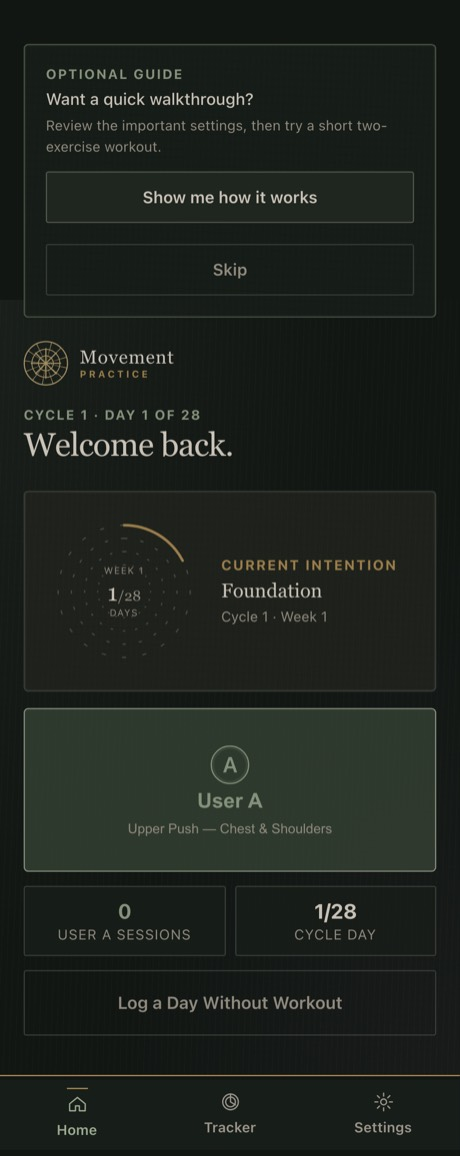
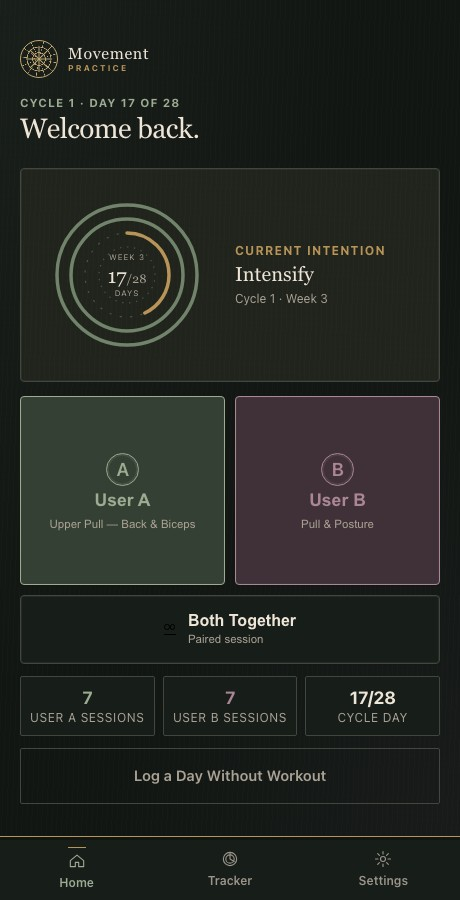
Polish portfolio presentation and refresh demo screenshots
Add reproducible screenshots with fictional tracker data, restore current UI documentation, improve social sharing metadata, add the project origin story and author credit, and update release, architecture, and testing documentation.

diff --git a/index.html b/index.html
@@ -5,6 +5,18 @@
   <meta name="viewport" content="width=device-width, initial-scale=1.0, viewport-fit=cover">
 
   <title>Movement</title>
+  <meta name="description" content="A private, offline-capable movement tracker that adapts each day's workout to your energy, soreness, pain, and symptoms.">
+  <link rel="canonical" href="https://eli-studio.github.io/movement-practice/">
+
+  <meta property="og:type" content="website">
+  <meta property="og:title" content="Movement Practice">
+  <meta property="og:description" content="A local-first movement tracker that adapts each day's workout to how your body actually feels.">
+  <meta property="og:url" content="https://eli-studio.github.io/movement-practice/">
+  <meta property="og:image" content="https://eli-studio.github.io/movement-practice/docs/social-preview.png">
+  <meta property="og:image:width" content="1200">
+  <meta property="og:image:height" content="630">
+  <meta property="og:image:alt" content="Movement Practice dashboard and four-week cycle progress">
+  <meta name="twitter:card" content="summary_large_image">
 
   <meta name="apple-mobile-web-app-capable" content="yes">
   <meta name="mobile-web-app-capable" content="yes">

diff --git a/js/screens.js b/js/screens.js
@@ -1841,6 +1841,9 @@ export function renderSettings(App) {
           health-data tracking. Everything stays on your device. Easy to carry,
           easy to adapt.
         </p>
+        <p class="about-card__credit">
+          Designed by <a href="https://github.com/Eli-Studio" target="_blank" rel="noopener noreferrer">Eli-Studio</a>
+        </p>
         <p class="about-card__meta">Movement Practice · v${APP_VERSION}</p>
       </div>
     </div>

diff --git a/service-worker.js b/service-worker.js
@@ -1,7 +1,7 @@
 // Bump this version whenever any precached asset changes. This is the single
 // cache-busting mechanism — module URLs no longer carry per-file ?v= query
 // strings (which had drifted out of sync and spawned duplicate module fetches).
-const CACHE = 'movement-network-first-v16';
+const CACHE = 'movement-network-first-v17';
 const CORE = ['./', './index.html', './styles.css', './manifest.json', './icons/icon.svg',
   './icons/icon-120.png', './icons/icon-152.png', './icons/icon-167.png', './icons/icon-180.png',
   './icons/icon-192.png', './icons/icon-512.png', './icons/icon-maskable-512.png',

diff --git a/styles.css b/styles.css
@@ -672,6 +672,8 @@ body {
 .about-card__blurb {
   color: var(--text-2); font-size: 0.86rem; line-height: 1.6; margin-bottom: 14px;
 }
+.about-card__credit { margin-bottom: 12px; color: var(--text-2); font-size: .78rem; }
+.about-card__credit a { color: var(--action-primary-strong); text-underline-offset: 3px; }
 .about-card__links { display: flex; flex-wrap: wrap; gap: 8px; }
 .about-card__links .btn { text-decoration: none; }
 .about-card__meta {

diff --git a/README.md b/README.md
@@ -6,16 +6,19 @@
   <img alt="License: MIT" src="https://img.shields.io/badge/License-MIT-b89458">
   <img alt="Zero runtime dependencies" src="https://img.shields.io/badge/runtime%20deps-0-2f6f4e">
   <img alt="PWA" src="https://img.shields.io/badge/PWA-offline--first-4b5c47">
-  <img alt="Vanilla JS" src="https://img.shields.io/badge/vanilla-JS-informational">
+  <a href="https://github.com/Eli-Studio/movement-practice/actions/workflows/release-checks.yml"><img alt="Release checks" src="https://github.com/Eli-Studio/movement-practice/actions/workflows/release-checks.yml/badge.svg"></a>
 </p>
 
 ### ▶︎ [Try the live demo](https://eli-studio.github.io/movement-practice/)
 
 <p>
-  <img src="docs/screenshots/dashboard.jpg" alt="Home dashboard showing cycle progress and today's routine" width="260">
-  <img src="docs/screenshots/onboarding.jpg" alt="Onboarding: choose one or two profiles" width="260">
-  <img src="docs/screenshots/reports.jpg" alt="Tracker screen with charts and exports" width="260">
+  <img src="docs/screenshots/dashboard.jpg" alt="Home dashboard showing four-week cycle progress and today's routines" width="220">
+  <img src="docs/screenshots/checkin.jpg" alt="Daily capacity check-in with energy, pain, soreness, and symptoms" width="220">
+  <img src="docs/screenshots/adaptation.jpg" alt="Today's adapted workout recommendation and exercise choices" width="220">
+  <img src="docs/screenshots/reports.jpg" alt="Populated Tracker with fictional session, capacity, and progression data" width="220">
 </p>
+
+<sub>Screenshots use deterministic fictional sample data generated by <code>npm run screenshots</code>.</sub>
 
 ---
 
@@ -25,6 +28,12 @@ Movement Practice runs a rotating, four-week strength/mobility program for one o
 
 Everything is stored in the browser. There is no backend to run, nothing to sign up for, and no telemetry.
 
+## Why I built it
+
+Movement Practice began as a tool for my partner and me. We wanted to follow the same four-week practice while adapting each day for different energy, soreness, chronic pain symptoms, and available equipment—without treating recovery as failure or losing our place in the cycle.
+
+That constraint shaped the two-profile model, local-first storage, shared-equipment handling, and the adaptation engine.
+
 ## Notable engineering
 
 The parts worth a look if you're reviewing the code:
@@ -32,7 +41,7 @@ The parts worth a look if you're reviewing the code:
 - **Offline-first PWA, zero runtime dependencies.** The entire app is hand-written ES modules + one vendored chart library. A [service worker](service-worker.js) precaches the app shell and serves it offline; a single cache-version constant is the only cache-busting mechanism.
 - **An adaptive training engine.** [`adaptation.js`](js/adaptation.js) + [`rotation.js`](js/rotation.js) + [`cycles.js`](js/cycles.js) compose the daily plan from a capacity check-in, a symptom→exercise conflict matrix, available equipment, and where you are in the 28-day cycle.
 - **Safe, structural data migration.** [`storage.js`](js/storage.js) forward-fills older saves against the current schema (nested count maps, per-profile fields), migrates a legacy storage key without stranding history, and validates imported backups field-by-field before trusting them.
-- **Security-minded exports.** CSV cells are [neutralized against spreadsheet formula injection](js/exports.js) (`=`, `+`, `-`, `@`), all user text is HTML-escaped at the render layer, and the only permitted external link is an `https://open.spotify.com` allow-list.
+- **Security-minded exports and links.** CSV cells are [neutralized against spreadsheet formula injection](js/exports.js) (`=`, `+`, `-`, `@`), all user text is HTML-escaped at the render layer, user-configured links are restricted to an `https://open.spotify.com` allow-list, and the About card contains one fixed author link to GitHub.
 - **Accessibility as a first-class concern.** `aria-pressed` toggles, an `aria-live` announcement region, visible focus indicators, `prefers-reduced-motion` support, 44px touch targets, and WCAG AA color contrast in both themes — with an automated contrast regression test guarding it.
 - **iOS-safe audio unlocking.** [`audio.js`](js/audio.js) works around WebKit's gesture-gated `.play()` by pre-creating and unlocking every audio element on the first user tap.
 - **A dependency-free release checker.** [`scripts/release-check.mjs`](scripts/release-check.mjs) validates JS syntax, the exercise/routine/equipment reference graph, version alignment, backup migration round-trips, and CSV safety — with no test framework.
@@ -69,7 +78,8 @@ npm run serve      # zero-dependency static server → http://127.0.0.1:4174
 
 ```bash
 npm test           # dependency-free release checks (syntax, data graph, migration, CSV safety)
-npm run test:e2e   # Playwright behavioral smoke tests (onboarding, navigation, export, a11y contrast)
+npm run test:e2e   # Playwright behavioral smoke tests (flows, export, a11y, cycle graphics)
+npm run screenshots # regenerate the curated README gallery and social preview
 ```
 
 `npm test` has no dependencies and gates every pull request. The Playwright suite is a dev-only add-on — it does not affect the shipped, zero-dependency app.

diff --git a/NEXT_STEPS.md b/NEXT_STEPS.md
@@ -1,10 +1,9 @@
-# Release Checkpoint
+# Roadmap and Release Checkpoint
 
-Version 0.6.0 is the finished public demo candidate. The current branch is
-functional, deployable, and manually verified across phone, tablet, and desktop
-viewports.
+Version 0.6.1 is the current public demo. The main branch is functional,
+deployable, and verified across phone, tablet, and desktop viewports.
 
-## Completed for 0.6.0
+## Completed through 0.6.1
 
 - One- or two-profile onboarding with an optional guided first workout.
 - Daily capacity choices with transparent defaults.
@@ -28,15 +27,16 @@ viewports.
 4. On the deployed HTTPS URL, smoke-test fresh onboarding, one short workout,
    resume/discard, backup restore, second-profile controls, paired phone layout,
    install, and offline reload.
-5. Tag the verified commit as `v0.6.0`.
+5. Tag the verified commit with the next semantic version.
 
-## Added since 0.6.0
+## Portfolio and release tooling
 
 - MIT license ([LICENSE](LICENSE)).
 - Playwright behavioral smoke tests ([tests/e2e/](tests/e2e)) covering onboarding,
   navigation, backup export, and a WCAG-AA contrast regression guard, wired into CI.
 - Zero-dependency local static server (`npm run serve`).
 - Architecture overview ([ARCHITECTURE.md](ARCHITECTURE.md)).
+- Reproducible README screenshots and social preview (`npm run screenshots`).
 
 ## Intentionally deferred beyond the demo
 

diff --git a/CHANGELOG.md b/CHANGELOG.md
@@ -5,6 +5,18 @@ All notable changes to Movement Practice are documented here.
 The format is based on [Keep a Changelog](https://keepachangelog.com/en/1.1.0/),
 and this project adheres to [Semantic Versioning](https://semver.org/spec/v2.0.0.html).
 
+## [Unreleased]
+
+### Added
+- A short origin story explaining the two-person, capacity-adaptive product constraints.
+- Reproducible current-version README screenshots with deterministic fictional sample data.
+- A generated 1200×630 social preview plus Open Graph, Twitter card, canonical URL, and page-description metadata.
+- A fixed GitHub author link in the in-app About card.
+
+### Changed
+- Replaced the README's implementation badge with the Release Checks workflow status.
+- Updated architecture, testing, and roadmap documentation for the current public demo.
+
 ## [0.6.1] — 2026-07-13
 
 ### Fixed
@@ -56,5 +68,6 @@ Initial public demo.
   visible focus indicators, and reduced-motion support.
 - Dependency-free automated release checks in pull requests and before deploys.
 
+[Unreleased]: https://github.com/Eli-Studio/movement-practice/compare/v0.6.1...HEAD
 [0.6.1]: https://github.com/Eli-Studio/movement-practice/releases/tag/v0.6.1
 [0.6.0]: https://github.com/Eli-Studio/movement-practice/releases/tag/v0.6.0

diff --git a/ARCHITECTURE.md b/ARCHITECTURE.md
@@ -3,7 +3,7 @@
 A tour of how Movement Practice is put together. The app is a single-page,
 offline-first PWA written in vanilla ES modules — no framework, no build step,
 one vendored chart library. This document is the map a reviewer needs to move
-through ~8.7k lines quickly.
+through ~9k lines quickly.
 
 ## The big picture
 
@@ -94,8 +94,11 @@ third-party network requests.
   gate: JS syntax, the exercise/routine/equipment reference graph, version
   alignment, backup-migration round-trip, and CSV formula-injection safety.
 - [`tests/e2e/`](tests/e2e) — **dev-only** Playwright behavioral tests (onboarding,
-  navigation, backup download, and a WCAG-AA contrast regression guard), driven
-  through the zero-dep static server in [`scripts/serve.mjs`](scripts/serve.mjs).
+  navigation, backup download, cycle-graphic variants, and a WCAG-AA contrast
+  regression guard), driven through the zero-dep static server in
+  [`scripts/serve.mjs`](scripts/serve.mjs).
+- [`scripts/capture-screenshots.mjs`](scripts/capture-screenshots.mjs) — regenerates
+  the curated README gallery and social preview from a clean, deterministic app session.
 
 ## Module reference
 